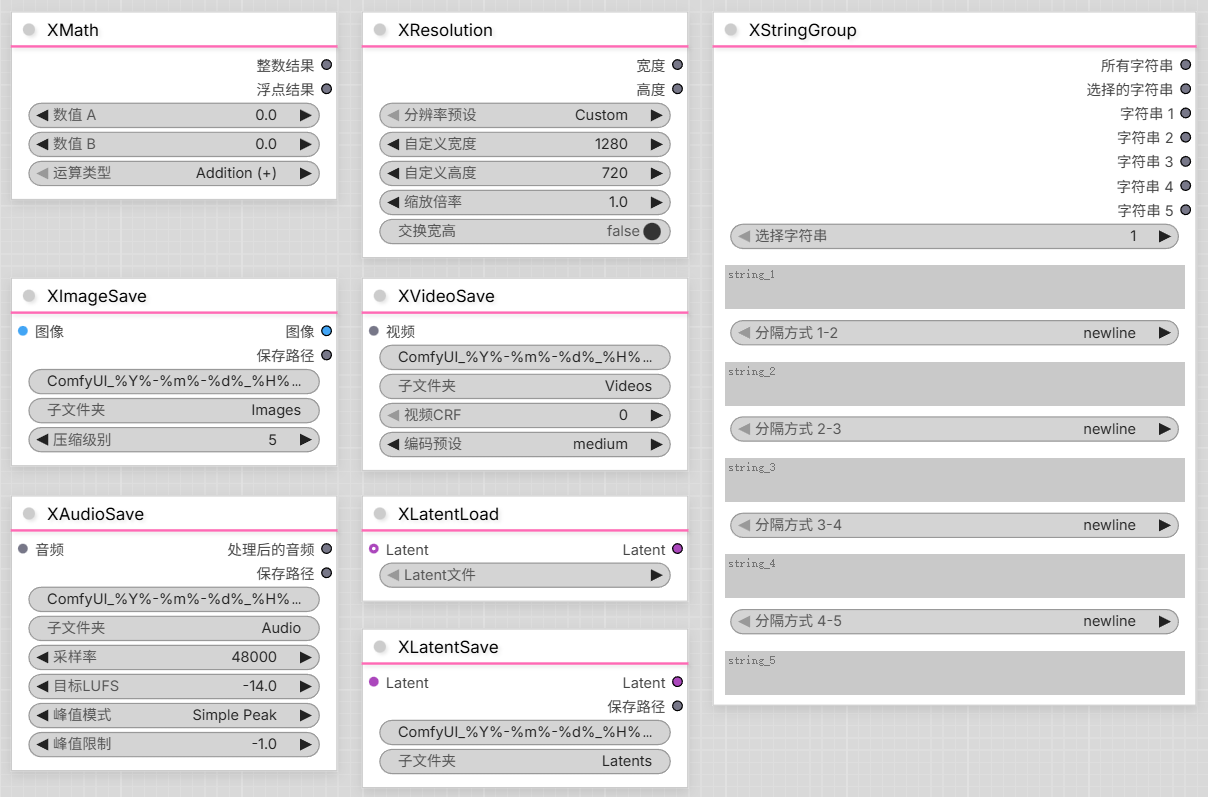
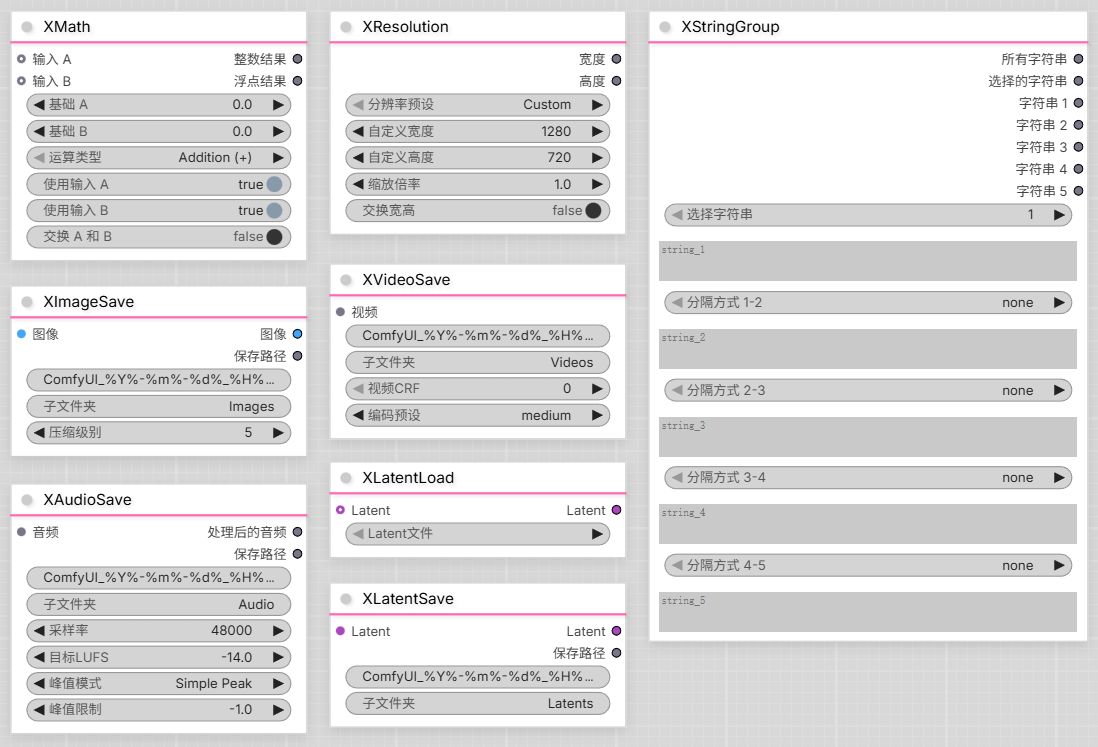
更新

diff --git a/xnode/xmath.py b/xnode/xmath.py
@@ -98,11 +98,11 @@ class XMath:
                 }),
                 "use_input_a": ("BOOLEAN", {
                     "default": True,
-                    "tooltip": "use input value A (input_a takes precedence when enabled)"
+                    "tooltip": "use input value A (input_a takes precedence when enabled, fallbacks to basic_a if not connected to other node)"
                 }),
                 "use_input_b": ("BOOLEAN", {
                     "default": True,
-                    "tooltip": "use input value B (input_b takes precedence when enabled)"
+                    "tooltip": "use input value B (input_b takes precedence when enabled, fallbacks to basic_b if not connected to other node)"
                 }),
                 "swap_ab": ("BOOLEAN", {
                     "default": False,
@@ -153,13 +153,13 @@ class XMath:
             raise ValueError(f"Unknown operation: {operation}")
 
         # 优先级逻辑：根据各自的开关决定是否使用 input
-        # 注意：在 ComfyUI 中，未连接的输入端口会使用 INPUT_TYPES 中定义的默认值（0.0）
-        if use_input_a:
+        # 如果启用使用 input 但端口未连接（值为 None），则回退到 basic 值
+        if use_input_a and input_a is not None:
             a = input_a if isinstance(input_a, float) else float(input_a)
         else:
             a = basic_a
-            
-        if use_input_b:
+
+        if use_input_b and input_b is not None:
             b = input_b if isinstance(input_b, float) else float(input_b)
         else:
             b = basic_b

diff --git a/README.md b/README.md
@@ -75,11 +75,24 @@ pip install -r requirements.txt
 基础数学运算节点，支持双输出格式（整数+浮点数）。
 
 **功能**: 加法、减法、乘法、除法、幂运算、取模、最大值、最小值
+- 支持输入端口和基础值两种输入方式
+- 可独立切换 A 和 B 的输入来源
+- 支持 A 和 B 值交换功能
+- 自动处理除零和溢出等边界情况
 
 **输入**:
-- `a` (FLOAT): 第一个数值
-- `b` (FLOAT): 第二个数值
+- `input_a` (INT/FLOAT): 输入数值 A（接收上游节点，可选）
+- `input_b` (INT/FLOAT): 输入数值 B（接收上游节点，可选）
+- `basic_a` (FLOAT): 基础数值 A（默认值）
+- `basic_b` (FLOAT): 基础数值 B（默认值）
 - `operation`: 运算方式（下拉选择）
+- `use_input_a` (BOOLEAN): 是否使用输入端口数值 A
+- `use_input_b` (BOOLEAN): 是否使用输入端口数值 B
+- `swap_ab` (BOOLEAN): 是否交换 A 和 B 的值
+
+**优先级逻辑**:
+- 如果 `use_input_a` 为 True，使用 `input_a`（如果未连接到其他节点则回退到 `basic_a`
+- 如果 `use_input_b` 为 True，使用 `input_b`（如果未连接到其他节点则回退到 `basic_b`
 
 **输出**:
 - `int_result` (INT): 整数结果（截断小数）
@@ -124,11 +137,18 @@ pip install -r requirements.txt
 - 路径安全防护（防止路径遍历攻击）
 - 自动添加序列号防止覆盖(从00001开始)
 - 批量图像保存支持
+- PNG 压缩级别可调节（0-9）
+- 元数据保存（工作流提示词、种子值、模型信息等）
 
 **输入**:
 - `images` (IMAGE): 输入图像张量
 - `filename_prefix` (STRING): 文件名前缀
 - `subfolder` (STRING): 子文件夹名称
+- `compression_level` (INT): PNG 压缩级别（0-9，0=无压缩，9=最大压缩）
+
+**隐藏输入**:
+- `prompt` (PROMPT): 工作流提示词（自动注入）
+- `extra_pnginfo` (EXTRA_PNGINFO): 额外元数据（自动注入）
 
 **输出**:
 - `images` (IMAGE): 原始图像（透传）
@@ -290,7 +310,7 @@ Latent保存节点，支持自定义文件名和元数据保存。
 
 **功能**:
 - 支持最多5个多行字符串输入
-- 每个字符串之间可选择不同的分隔方式（换行、空格、逗号、句号）
+- 每个字符串之间可选择不同的分隔方式（无、换行、空格、逗号、逗号+空格、句号、句号+空格）
 - 输出组合后的完整字符串
 - 支持选择单个字符串输出（1-5）
 - 支持每个字符串的原始输出
@@ -308,10 +328,13 @@ Latent保存节点，支持自定义文件名和元数据保存。
 - `string_5` (STRING, 多行): 第五个字符串
 
 **分隔方式选项**:
+- `none`: 无分隔
 - `newline`: 换行符（`\n`）
 - `space`: 空格（` `）
 - `comma`: 逗号（`,`）
+- `comma_space`: 逗号+空格（`, `）
 - `period`: 句号（`.`）
+- `period_space`: 句号+空格（`. `）
 
 **输出**:
 - `total_string` (STRING): 组合后的完整字符串（带有分隔方式）
@@ -409,6 +432,7 @@ ComfyUI-Xz3r0-Nodes/
 - **项目主页**: [https://github.com/Xz3r0-M/ComfyUI-Xz3r0-Nodes](https://github.com/Xz3r0-M/ComfyUI-Xz3r0-Nodes)
 - **问题反馈**: [GitHub Issues](https://github.com/Xz3r0-M/ComfyUI-Xz3r0-Nodes/issues)
 - **Comfy Registry主页**: [Comfy Registry](https://registry.comfy.org/zh/publishers/xz3r0/nodes/xz3r0-nodes)
+
 ---
 
 <div align="center">
